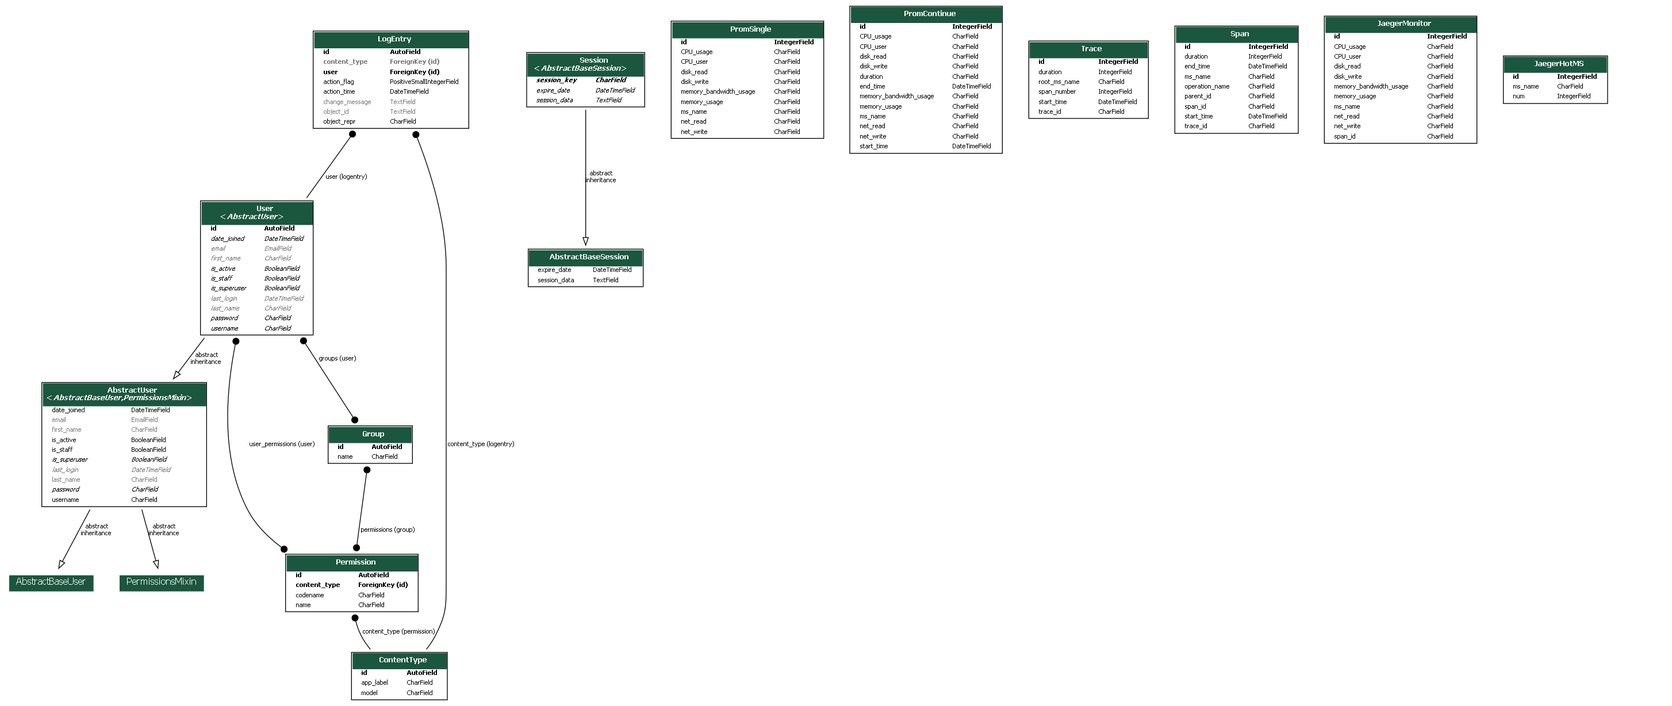
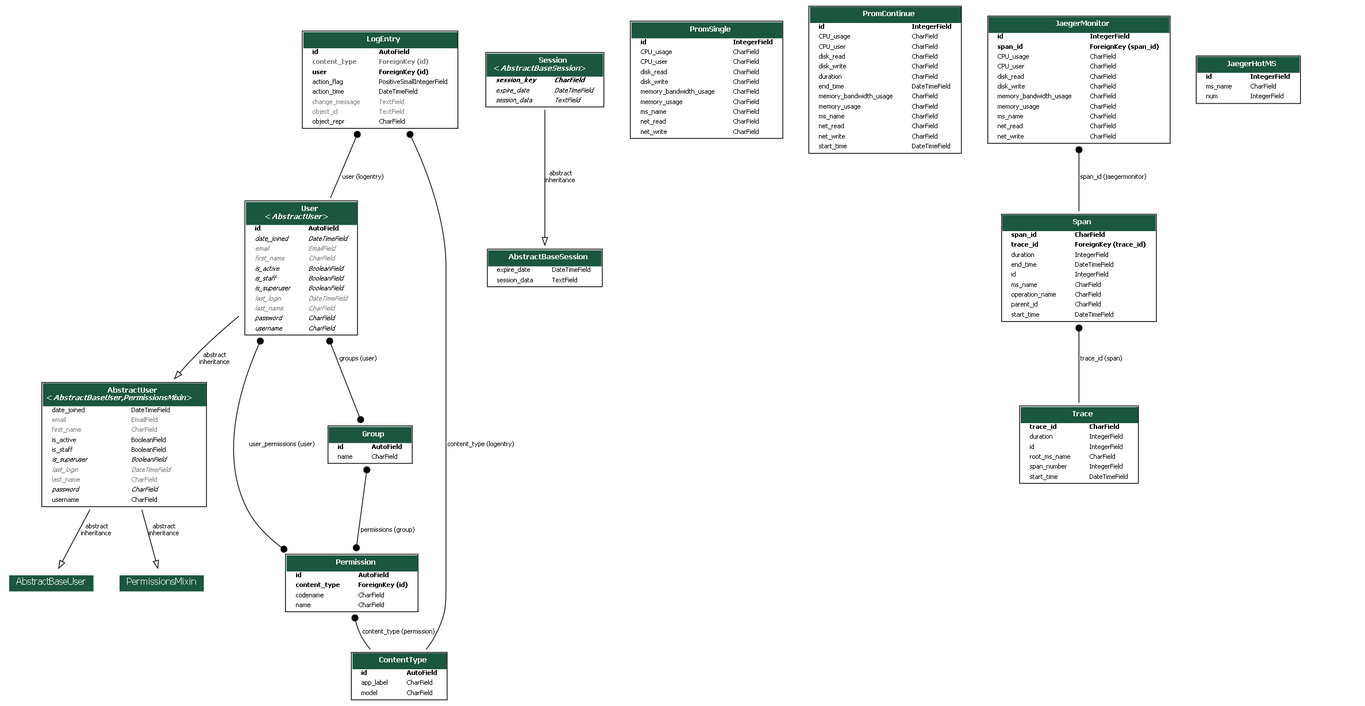
稍微修改

diff --git a/pyTest/init_data.py b/pyTest/init_data.py
@@ -1,8 +1,8 @@
 USER_CREDETIALS = ['XZGpmJYQF', 'QNIBybCS', 'lvRRWGkww', 'xvYsJmxP', 'UKPdZnENI', 'jxBiOhun', 'FhazVVftN', 'oIOqqrFa', 'zEdKfSmb', 'sBHCWzPFT', 'TOcuBHQa', 'zBemPwvSS', 'LDolxRai', 'aVCTYhzgV', 'ajNPuTsl', 'gNoeWVKK', 'tfoJkSlD', 'FsjZfRaut', 'wxTbHHFQz', 'FpSEiyAk', 'ckwQtYLKJ', 'WWeGXUby', 'wXDvSBrz', 'wOziajBt', 'TdBHGIbor', 'tDyQiRSk', 'dIKVFrAw', 'mZBTZbGN', 'uuqbdvKfT', 'MfTiOCRi', 'kZqJYXUy', 'cOOKmrPN', 'CMkahgOuq', 'WraaxKpxR', 'KEVhNlRm', 'qCIfJPkhe', 'yrGvkcZJ', 'OIoGatAMu', 'IONzzWKW', 'GwtmGMYV', 'lOHgeUGx', 'JrMwZuAJ', 'RPFITfdg', 'OTubbvcbh', 'KRLBHQtYz', 'zNgVhdLuU', 'przPVWUP', 'BKsZhvDtc', 'hufBlZzY', 'egeTBVLcz', 'ygHnPpkY', 'XYIMaFbF', 'bsWdbCPL', 'rsOCPnUOm', 'hGFpXfXpq', 'hVvpfsbd', 'cdXFPPkPc', 'zCNiLLmkX', 'lFlBqanbD', 'eDjwRbSX', 'lXWDJRew', 'MMPxnbqPm', 'vDvUZZLsX', 'HaIDpcYML', 'EmtlRIVH', 'QJNGRCcI', 'MjkwjZiO', 'xhtvngKYU', 'SmUQFqoLd', 'CbKaLmwvq', 'UXIgwGkgm', 'EbmQDXqw', 'dAgKFLZCg', 'lBmNkAtH', 'ugyrUtOD', 'vUuDLpef', 'yImJtlSMc', 'ZBryKdyF', 'xgDvzDQMg', 'himtQYbT', 'ylZNmKsC', 'ZTPTdPmH', 'OVIWgAgsp', 'WIonFvQY', 'ypfyyFIM', 'GCoLuLgkv', 'fWiYUYNM', 'ruaqWWRPl', 'QooGlrVN', 'aHaCqwEir', 'PVEgvcct', 'ydculZJDK', 'anrTixOSA', 'UCKTBLicc', 'KlBvUTUa', 'fKnXtUan', 'kPnLEadM', 'lsjraYuy', 'hQaniUsKJ', 'agtwQSslU', 'WaLRuuBY', 'jqxhTznN', 'rFzNPsmy', 'WiHpByUko', 'sDKPZGcI', 'OluLAcAep', 'DLfZvyDFZ', 'RWOdFYunB', 'hKxjvoVgU', 'PTiiJQDj', 'GDPlCFxF', 'sgYWymRYJ', 'gFLuBnABZ', 'KjyXvZSKH', 'PZXpWaNb', 'ZNUkfZxdJ', 'BIIJRryM', 'yqQgfYHeb', 'XqjgLoENo', 'QNHsEqFZ', 'McREGZKlT', 'TzNqwXXpB', 'oFUTjeGW', 'CDsfyesw', 'mngmlDzye', 'gkRTBkcz', 'OnflLJvPc', 'lVURvJBX', 'nvFvCBsx', 'oZtaleXo', 'ZZVIolAlr', 'IvJSkCqMC', 'knIkTaQrx', 'CVqVkoQD', 'XMCzeplK', 'bAkZvFiy', 'RsDbHQtx', 'KaLzOKGi', 'xNPbBtkt', 'CJSPStKn', 'FCUKLZdT', 'ftLJLSBX', 'VjBWnAMa', 'uCUDbirr', 'zRxzdwpCx', 'VAqQGktR', 'UtCYOBkIS', 'CBLeuxfih', 'BWqwzwoU', 'IKItgKNp', 'VQNSMguwO', 'WgDBRgXl', 'DJGmsRaL', 'xmHtWVgF', 'WllRHqNO', 'nTtUIrhUl', 'dOtGMCqJ', 'XrtBxwquB', 'BNWXuGDfW', 'DmJKOvrg', 'RznmnqAk', 'LaiachSJR', 'SVfsmUMcZ', 'wIKSiFXF', 'yxiFUzths', 'yJYzuZYH', 'FCfnajfD', 'FKZPlSmAl', 'zOKMmFHWK', 'bQhrBhwjW', 'OUVSqdjz', 'AoVMrBDDQ', 'xsMmeGaaP', 'ZZIWAeNwu', 'hvsISkBpJ', 'nrHxKoVU', 'eleLbEovD', 'fJbyvQdr', 'QRbUdUZzc', 'sgVmJuSrV', 'TMHuZCdIu', 'HUvUvIVg', 'kEEPxZBsC', 'jLwVPLDfi', 'qVZlQilmu', 'kurhKYqk', 'lfldxrYSe', 'CYMuRPGKX', 'pyoZawabw', 'ulUBsXJMY', 'hJipjGSQ', 'goqvaWay', 'EClWksrk', 'WtAdqFxy', 'NXzuDfTW', 'TyGVpuEi', 'yLEkzntiQ', 'TXFxFMnDJ', 'LwoEvOOiw', 'sXHbzzsJ', 'AxDNwiix', 'lzQtALZD', 'MxCFmvDaj', 'DDfoqKkML', 'oQNHhtwAM', 'nduMbBMo', 'JUNWAEoP', 'tZPGOjxp', 'yEMWWrogq', 'IJyresoVL', 'BFNWEWgt', 'GKhdCBsIU', 'ubRPlIoUw', 'HhyhXtVrZ', 'mwWfwhMu', 'JgcCmKjU', 'ODcEKYWl', 'PWovBSEYU', 'sAmNCClj', 'jjzIwNvr', 'BnlorVKtF', 'lnHIMSru', 'bRgXAnxah', 'yMJsOToj', 'UOXejVZOF', 'PRmoTLEue', 'qVgfMgEg', 'RMqPiEKY', 'JrCICcgm', 'ekqjhSqj', 'wDPagLIxT', 'iLaJbPlnt', 'WVQiNCKo', 'uaUJJRyDJ', 'ZEupYZxC', 'tQNGXSVLN', 'IiVbisgyc', 'cNSGQqTDn', 'qLxJgHkG', 'hovVevslq', 'NDjvSuXsR', 'CasucZBF', 'bldNXSQeE', 'myMkwYxt', 'RIUCbcTEa', 'OrikRoED', 'MnteXMAl', 'WqogIkmS', 'uhrDuhuX', 'SvtYByRv', 'ntIhXQfah', 'TfLtSCuh', 'qJusaTdM', 'MsfrmmEC', 'AvIhwFCGx', 'TVtOqiQS', 'SUZVvUsH', 'mVSIwqzL', 'jkgiOBlla', 'gDFFcKQwm', 'ADHeztSuJ', 'CkwRamHP', 'cBxGDyPX', 'gegJfEWAj', 'xoNVzAiWx', 'ASdwYYth', 'atxruuFIu', 'MaOGvrNUg', 'lXBsjMue', 'HsEKTsTa', 'QGoIcoMRz', 'HLFfEydRv', 'HFNbTDCyO', 'ovQHnnwH', 'frvstzjpF', 'sanESzTm', 'qeZvSMcl', 'Urdyglve', 'QaqZhBcy', 'OOgPxoKVY', 'dBRmuZSx', 'zbJLdpKdL', 'XioohHweo', 'btLnsZjmX', 'PAwRWpegK', 'aPNeSYJGA', 'nCKOqvsk', 'aQEKCMAz', 'iczixcxm', 'RvPDSIvno', 'bNvBOMDR', 'rCaUvelgU', 'rMbAQhebZ', 'EVFJVbWN', 'HWnEpSTJ', 'shznfMzVV', 'GzDyvGCqj', 'XPKCLOLr', 'PjMTgIjn', 'CXnZaxYK', 'OBdjSRaJ', 'PfzcfXSd', 'TCbDYGMv', 'hhOKUZyh', 'ACtCMHdym', 'jEZCchdN', 'RBGGwgjp', 'CROqkvSkx', 'ROoyzpfO', 'THOyywlnE', 'GhgAdZPr', 'xMXhnLFx', 'XMlAQfCA', 'EGkwTpmkh', 'fBIWeYiul', 'jCccvuqW', 'bKDtWLuWv', 'bxbAJtNaC', 'jiZrUIPi', 'ZXQSaJMzP', 'QeQkUFRQ', 'CUVkfsLe', 'DuyLHsfH', 'LXnBRBxXj', 'QCqJdISA', 'bjTMiaRc', 'BoLfOCoQS', 'JgfkJIGhH', 'Ynxdcbxl', 'ZqAVjvSl', 'ahGhvPNH', 'NzZhzSFOY', 'JIIISyVH', 'UlQCvKhT', 'wEdiPFgr', 'hGiXUPzU', 'FHydmJXHl', 'KhjdgADT', 'QuYMDzEmY', 'PEtqvsEK', 'ZJXcqdRTx', 'HhsrjDRjz', 'umtKEZfSx', 'mnCFpmrRM', 'WAlalZQLG', 'SBknhBxs', 'jxrfEuAmk', 'xQzUKzOA', 'GcADUBqW', 'vlHUxyaL', 'uzrmjIeL', 'VLIiGWwn', 'hAyTHMsP', 'iKysIUngB', 'uaMmLZwLk', 'VIVOzjVT', 'YpfQkcOX', 'oYpfBiatv', 'ApocqnTmX', 'tGalSPvgT', 'CIqtvCGis', 'sgbAPFAzn', 'KelsqCgAD', 'sljwXaNOF', 'BXVcOYVd', 'RIueeHju', 'mwluoeJd', 'NNTXctAKG', 'dtJHbZmh', 'uhWSzNOtN', 'fJNnvJTwT', 'wrqKSeUD', 'LdKECXPv', 'rNhaaGWy', 'bbHEcnNF', 'mbeoZCUm', 'OhwjIOPoW', 'aBCsFRpZ', 'gEYLSHyD', 'AuQvUicG', 'QdtIRNvP', 'uQMfuIXIl', 'wtaMNgjm', 'XxstlCTv', 'cOBQBmjmB', 'MLTXETeJD', 'WrTJmzOql', 'NXNVLlkFd', 'TUoVSLeu', 'QGXVmfog', 'xzOBbbOb', 'DvSVfrwe', 'NnFWiTRB', 'rWGWpAld', 'PScxKAOo', 'ejXfnnpMv', 'roXtKVhkq', 'GcIUudjo', 'dcsCfnsqy', 'tGcPvgItg', 'poaiRgff', 'eMTCTUnj', 'zSmfUyrYw', 'kFVIYTHaM', 'brjXXxtyI', 'mkAQTvLbs', 'EVMvFXEK', 'GNbNufRj', 'DvVmlyrL', 'FLLZAVdg', 'CGvYqelk', 'ThHElCHW', 'bSGgLibLK', 'cbDnOYBG', 'IDJjKAnsk', 'QaLOcxlk', 'YDQWBcuPi', 'bRqWlMPA', 'MIoOnjxF', 'sFohiVML', 'AgUnXrCP', 'xrJYhyfp', 'SLdjqQWR', 'nfjoYDGi', 'WWEApxvdm', 'rWAKzNStG', 'WJUubqde', 'lCpyMsOW', 'JqcfUWFH', 'yBKDJTnzT', 'zDOiSkcr', 'hmBNbOswj', 'tmcdxJnPn', 'uTXCPklv', 'ILZAOYoAP', 'eVaJlGmrD', 'kSnxfIoZN', 'XodHBssh', 'OKtaQyIJm', 'brCDZllZp', 'htNgqUzj', 'sKZsmore', 'mhhpWuyZ', 'aZpqoMytS', 'GWvebWQCx', 'wOfzmQzf', 'hYUSmJUH', 'LoeFgXGgo', 'hKaQxRYe', 'asTYOEJhB', 'rnubHRHr', 'NTmnHgGg', 'DWSRiUfD', 'LkjqDFCx', 'KQXajGtc', 'WfuJXXfw', 'UAOkrKQx', 'TxkHQrKdT', 'egCQYsbHy', 'nxGTKbHw', 'StnrEUTDp', 'ZaifrwmW', 'hFgOSgbGV', 'gyYKMCkE', 'AnFZIFqF', 'ESZNJwBaI', 'SozfpJCFG', 'vHsFgkvsw', 'fRSuJmAMM', 'OIzYpnCIE', 'ruIBvtDu', 'qrzQAQGw', 'SQQRGNDFS', 'GlKZSaxs', 'hnuWnEXO', 'ArmvNYsU', 'GAZKfIOA', 'nKXqxkjD', 'UvujuFpw', 'HtOosLsJ', 'ftyoJNIN', 'lsPYybzin', 'DdGkARMTH', 'BsdQYAuRK', 'kvsaNfpS', 'cCIroodpM', 'DwvcSiifI', 'WKMYGDSX', 'LkhHtsOmk', 'PoYebdEiH', 'LIEPdFfzy', 'rWDkZHFqL', 'KKHldmViH', 'dWqXvFMUT', 'uaxpnBrca', 'CjXHwSXET', 'KMTlVHus', 'zouymkDD', 'AhJCBiko', 'jlVOnpMeR', 'gGKKUjdM', 'FATdsidt', 'MLTMrDjI', 'lnFBJEOUY', 'dSOeYMuY', 'Doefvrpl', 'bPnyPfAIV', 'EhpvbHEos', 'XggtZCJE', 'ZhIgGJCH', 'qzNUfOmbd', 'JyiJygDT', 'rUmuywcy', 'DQNenAmVd', 'TOmTpgSD', 'NWVyoxLXF', 'BeZrJGuS', 'ydzMTQMfr', 'HKnkgttO', 'CobgTaHr', 'wqLQUwhW', 'FxEmNuLye', 'jAFrGLdW', 'KFDEXAnWR', 'YHAgFaqi', 'OUKdorvLd', 'KQTjaLnHl', 'JLVTLoAF', 'EoWBSAZXf', 'EzHXkkOXx', 'BjDYpBtq', 'MOnQjZqp', 'FWvADAhI', 'mAtTYyhhV', 'rQSxyiQCT', 'eXSyMIdV', 'avPnqCWAN', 'svcdheAf', 'sXWZsIxkz', 'DsdfECfZM', 'VXXfgrqss', 'CLaTDeMpn', 'SIKyUYfVh', 'inPYmqMM', 'zYAwDfHvW', 'MTwUgVXzj', 'HwjVKTLf', 'dxLQrDIZ', 'UfCRhwzcz', 'zDoJUDKW', 'tlwJXcYE', 'MKtSwwxb', 'erKXIQffL', 'TYnzfORs', 'nJUNPAjFb', 'PBHInyLle', 'yEIPkVSI', 'ypYFyBTf', 'lPVruDpVw', 'txWjRZqtp', 'SUdjfWMp', 'bXABVXXp', 'mARejfAod', 'CXXwqtXKo', 'QaolHEiNO', 'aPKylwWY', 'vWEkWuFb', 'bowiCgxDz', 'vXHiJPMpx', 'EhkUEvGn', 'tnAlbOSbU', 'aRbIlVUDh', 'WSTbBhOo', 'xEaBsefCV', 'ynbbQKbf', 'KRWYFqrJ', 'OhkCgLeEQ', 'FFpfuDlaA', 'BtRzLSrNh', 'XsKxsYJAX', 'oGWVkvoG', 'RWmtqZZJ', 'jMEghNxU', 'BbdbkutF', 'JklDhtLS', 'bwJlvSwdo', 'JajSPEHb', 'fgULUMYH', 'zIMABInY', 'RLxFXtlQ', 'sJdvIhMTg', 'cjbmFaBV', 'qIQZuCFN', 'NHiEAOzJ', 'fmjInwwH', 'GjOUxISCi', 'sELTBbTMz', 'kUpLeISH', 'gvzDrmFi', 'dcrYeMhwt', 'ngAnaLwK', 'sjgyZaKA', 'COLCRzJc', 'UGWhsaXhP', 'PwUGLupj', 'VOhlJUAg', 'KSCSfSYBP', 'XOBBnDjb', 'hUUZcbac', 'opknCOajM', 'IklyTQnwm', 'THrYOOTjm', 'xAWgJmOUi', 'MhHyHMWO', 'LRsfMmSqH', 'WqnbEtfqX', 'KzgUifezU', 'xShOZSFx', 'MQPxkkxu', 'KXGwMhHZ', 'kbYepquuo', 'spTQHJLz', 'rKpUmlAP', 'GFExxJxT', 'zaPOJcjRk', 'JghTNOeDY', 'rfczWYmEA', 'GkHOPhod', 'oWkTOVaa', 'PZMrazzz', 'YBJyqeleF', 'AbiagJtxB', 'eIKXZIOa', 'pACwkmdc', 'rwDunZpL', 'SQURGEpt', 'SgOyUeJy', 'QPXxvulgR', 'NVlgQJiZ', 'DHcUxjSTD', 'rGDhKUAUG', 'zRmyjlGv', 'aidcSSUdG', 'QPFuYnFd', 'wGeGehDu', 'OvWmfybfq', 'TDlTsBRBP', 'LyWRNyndA', 'eovLYayim', 'rOCDmfSo', 'FZKrlWExR', 'GabxQLSsf', 'lhrYvijBU', 'BTBpxxvW', 'DDDIKbgpA', 'ThXpYwpZ', 'zVJAnoldm', 'xlAOSqYf', 'gxCPbKTt', 'zteOvXmf', 'BicIbeCY', 'yedLPgMx', 'dhqlWvGku', 'nINSGwHV', 'VGvkNwBQ', 'gqdxDMLar', 'pBsAWVokV', 'NetuPGOTN', 'qOiviuvi', 'vUXFZRbCy', 'XChWhtcQU', 'OmZEWOGO', 'SkJFpAvV', 'XfoulclNO', 'EQWAXlFM', 'ARwaQxph', 'YFXICIIG', 'JqTqqewV', 'BcHIvQFRZ', 'piqJnzfxS', 'AATDlkXdg', 'Ssqcdyaqu', 'YVpVFEJat', 'DtGfuTzu', 'wBjAqzeaB', 'OuacnrsQ', 'QrODlvbe', 'VELrMXtiK', 'rEdjFukER', 'yWKIvgFQ', 'vJOxplbcx', 'XZWVdNIgf', 'jwzSDJycH', 'wJpTsLjE', 'lSVIUSnP', 'zWiGnWpDL', 'XqjyZgErb', 'otUPXpdKm', 'LpkKHiOC', 'cUpMjUfH', 'lIupargn', 'uWkfWDhe', 'QPFxZGyZx', 'GzYjDGeS', 'ryYbUvOp', 'kLgaSkjEl', 'HRfGJLrzk', 'WwEhzaRD', 'hnsjUzyL', 'wvQWtPap', 'RkaAaNjra', 'XIoaTgap', 'RfIRuuZY', 'gHjNAchM', 'ZZobODkF', 'RiXTjpTnp', 'hjyeWpohn', 'AbxbbVYo', 'gqBXvINr', 'dYPgOsKq', 'LGxgdHpA', 'EGVEmluPz', 'FjseYHyTA', 'RVeSHDqX', 'fzoYCtrN', 'BEaobELng', 'LQcKnWGI', 'nMAhOeKRn', 'PvQJoISx', 'SAYJnKKBC', 'RFTzHrPj', 'fxhzfsjy', 'tateHMVUB', 'krPmmWla', 'ZIJkoZrwS', 'xIkJGRtc', 'aNNZYvzes', 'HiylBlab', 'vWmZiZKul', 'hPSDHDjI', 'EdfxggxHC', 'QftIjJVqC', 'nxFnhdHG', 'PvgRViiw', 'fZwXLqeB', 'bIGjknuhb', 'gWgtwuCyd', 'imjSQNhLi', 'JWHEYpso', 'iAYKiGPZJ', 'yHImZSQk', 'iXvGBxKP', 'ZzgppKKF', 'eTmtiGHFz', 'gjXfBpPnl', 'nyqfhofJ', 'ACoQixLS', 'HAUtbghf', 'QAqSMQOgg', 'pxzkuOhEa', 'BMaFOXEg', 'exrwnNdjI', 'rqJXsOfZp', 'eMlvemxOW', 'LFEHRSIg', 'ZsvdOgkB', 'ZjkSRkRs', 'rMnyRHoJt', 'RibMAYpkU', 'OmSpmsGwF', 'fXiHZEsWl', 'dCSailZOX', 'HlAoJquW', 'dnxnyUTLy', 'cccdlnlCO', 'CyagtkpiQ', 'xcwObocZ', 'fuOflIyc', 'drAJrWLjP', 'ZVEXjJlbG', 'SmSaRiWE', 'PevcimyOd', 'uYzxpVRbE', 'vROUFiKn', 'PBZTXNLN', 'xJshRoPsp', 'sydWjOSD', 'IiDqrlUR', 'tvBbhkwJW', 'CAZGsdYNl', 'xDIbJQgM', 'dDMNGahb', 'uiZQtyeHe', 'VKKCTMlsk', 'YLEYpfpf', 'EFSFDMTN', 'GfiTmjQx', 'hUSuCNdd', 'vBWguOgh', 'gIxavfCM', 'ZZoRPJmaw', 'tPEVdeIHS', 'jngMnjRZO', 'YKjMnDkbf', 'wANbBpbj', 'oyNorCRBM', 'avpTiWph', 'dRqUxWBp', 'UXLHLICu', 'rXQqSmeR', 'PlzTDITts', 'eIxORwNPc', 'VRRHjHWIj', 'JKqoWUalf', 'wQrfJhEnJ', 'OuyeAQIPg', 'SnaMaFUsi', 'ZOrAsMXNn', 'RFHtlQWdN', 'ulpxSSJS', 'xfrQDivMs', 'AvTdYgYoE', 'joXJZyQC', 'QMBAgspF', 'AuFTjlXR', 'rNSXRcBg', 'TFIKlKvg', 'eaKNyNpu', 'QqSdnJyHF', 'wByIFhJBo', 'WsxaQzXYb', 'IBiVtvekT', 'TVqikaQLf', 'iCYJwQxq', 'EAQIWtEDD', 'HSONvRit', 'kaSuhfJh', 'iPQuSIzkE', 'OKBuQQCHK', 'sTdSbYKWP', 'VpYibpTDI', 'JYxoAoBU', 'FbdefFhA', 'KMJPINUz', 'gVYFZqXO', 'fmuGdVLO', 'XzbRQGBqw', 'zUEQaxwdG', 'nlIeQetdW', 'YxuaoHZv', 'xyAXBBhmt', 'JyevKfAo', 'ImfQgqfXs', 'NmeSsbjGc', 'JYuObuVt', 'SJJOpywJS', 'wfXJQXMv', 'pAfUMjDzF', 'BUtNSwaGR', 'LKyAvUVlM', 'HMKzlPUS', 'TITuLZHO', 'tdXKYGpFC', 'kWZLnSDJ', 'buOGBqGuC', 'KjbaLDjtP', 'bsRsxnzX', 'ZJNGCpzYV', 'GBLsjeMSO', 'GlXKUuhj', 'xbTtKtkI', 'lIepNzRrG', 'khmCRewAS', 'gfCVzdkPm', 'wfjhcPRd', 'rjoDeftzl', 'lzzKGysAC', 'WsNUJtgIb', 'BXROZUDc', 'kPbsGESI', 'tqIGIclR', 'mQefoAeF', 'dMPNLhSz', 'PdfuoNbxe', 'eLQKgmer', 'tYymQYZEF', 'cnUNewHm', 'DlPpaEBAf', 'lqFIahoAu', 'XprjUzexw', 'SxMhYllWd', 'UUxcScai', 'hCWENpPB', 'rapGdHzI', 'ZgGJwMPI', 'uoGQzGKHE', 'aWTPIvIS', 'gmRtyjUWb', 'fbQbbSHj', 'rBHpMmSa', 'qBCTTCxRs', 'FjEkyaks', 'NovJMmbht', 'iJphKgOQV', 'FcISqYsTw', 'hnNmBtUpH', 'DMPcjbAkY', 'zMFjJcCa', 'mvLDgfwd', 'khPAPXam', 'gMpFTevUn', 'UoRSRAWj', 'eZBwrOWyC', 'ecDAJIXA', 'skVSsCsUB', 'hDyfbHIzV', 'SxuWcWIXs', 'sAusSKgrv', 'bmPCkTLH', 'PNHfCFbJ', 'ZGQZTSkz', 'zOWYSDAp', 'koSGlbzf', 'hEUuclhjd', 'CCagekHUl', 'XIzWMqZLr', 'bxZytacYp', 'rfPgXlEq', 'UdswqryT', 'OGNGbYNYX', 'qRTzvDqdU', 'ywxcUoJZR', 'JNefEhjuc', 'PkWkPpfOA', 'IZGlUfOm', 'mZBWNWCw', 'qxqSqxXD', 'vUyueLmKS', 'gfSElJhbn', 'QUvrnSede', 'deRhoukka', 'eodBjHJM', 'RDMQuRQhA', 'wQRWgnavV', 'rmqwmwNOz', 'guzYNTwKR', 'izwiUqVK', 'ynmVRxze', 'KCXMCBoEQ', 'ZyLUVBvlQ', 'kfAkVzvp', 'DTYjpmJx', 'uARKMsWzC', 'aFSTkkwI', 'cNMNcuNX', 'jIZoOBQmm', 'SGqeiBZI', 'akcGDvPnf', 'sAILCsxI', 'SbXWrClb', 'JuqisYuPE', 'erEuMJWL', 'LTArQsCaZ', 'zwSQqqKZ', 'ytoUuqPx', 'AVmDViXl', 'CgyNNntsA', 'RcjXukiQ', 'FNrfcmFrf', 'MTtciqSdZ', 'VGGmREGt', 'YuwIuItJB', 'LlmfknCq', 'OnpUBIhA', 'hDWddXSR', 'TwskGebv', 'DQozNXUhc', 'rxzEEzEKz', 'XjFZSDJKx', 'mTgMcgQSq', 'RkHODkKd', 'VxFPARnf', 'nnhNqSYM', 'KeZeumCQt', 'TXijZoMf', 'ZPKKldMD', 'heVYfltge', 'JZmKAuILu', 'qoulXkvI', 'uaQJXINa', 'xjQBfVHLt', 'FCgCqQpnb', 'pgLDUDUS', 'bdbXxSHp', 'TMIwSjpu', 'DVGfiRMi', 'DhbpzXtBL', 'PIeSunOl', 'NfoJzFgb', 'XfiZsvVm']
-BENCHMARK_HOST = "http://101.200.84.172:32677"
-PROMETHEUS_HOST = "http://101.200.84.172:30004"
-JAEGER_HOST = "http://101.200.84.172:32688"
-KIBANA_HOST = "http://101.200.84.172:30959"
+BENCHMARK_HOST = "http://39.105.183.249:32677"
+PROMETHEUS_HOST = "http://39.105.183.249:30004"
+JAEGER_HOST = "http://39.105.183.249:32688"
+KIBANA_HOST = "http://39.105.183.249:30959"
 cpu = "sum(rate(container_cpu_usage_seconds_total{container=""}[1m])) / (sum(container_spec_cpu_quota{container=""} / 100000) )*100"
 TRIP_DATA = [{"from": "shanghai", "to": "suzhou", "trip_id": "D1345", "seat_type": "2", "seat_price": "50.0"},
              {"from": "shanghai", "to": "suzhou", "trip_id": "D1345", "seat_type": "3", "seat_price": "22.5"},

diff --git a/pyTrainTicket/src/jaeger/jaeger_monitor.py b/pyTrainTicket/src/jaeger/jaeger_monitor.py
@@ -17,6 +17,7 @@ from pyTrainTicket.models import JaegerMonitor
 
 
 def jaeger_get_monitor():
+    print("开始资源监控")
     # 获取所有的trace
     traces_all = Trace.objects.all()
     traces = []
@@ -42,7 +43,6 @@ def jaeger_get_monitor():
             span['resourceData'] = [
                 {
                     'CPU_usage': 'CPU_usage',
-                    'CPU_user': 'CPU_user',
                     'memory_bandwidth_usage': 'memory_bandwidth_usage',
                     'memory_usage': 'memory_usage',
                     'disk_write': 'disk_write',
@@ -56,39 +56,33 @@ def jaeger_get_monitor():
 
 
 def jaeger_monitor_promQL(span_id, ms_name, start_time, end_time):
-    # CPU系统态利用率
-    CPU_usage = 'sum(rate(container_cpu_usage_seconds_total{pod=~"%s.*"}[1m])) by (pod, namespace, job, instance) / (sum(container_spec_cpu_quota{pod=~"%s.*"}/100000) by (pod, namespace, job, instance)) * 100 ' % (
-    ms_name, ms_name)
+    print("开开")
+    # CPU利用率
+    CPU_usage = 'sum by(instance, pod) (rate(container_cpu_usage_seconds_total{pod=~"%s.*"}[1m])) * 100' % ms_name
     res_cpu_usage = jaeger_monitor('CPU_usage', CPU_usage, span_id, ms_name, start_time, end_time)
-    # CPU用户态利用率
-    CPU_user = 'sum(rate(container_cpu_user_seconds_total{pod=~"%s.*"}[1m])) by (pod, namespace, job, instance) / (sum(container_spec_cpu_quota{pod=~"%s.*"}/100000) by (pod, namespace, job, instance)) * 100' % (
-    ms_name, ms_name)
-    res_cpu_user = jaeger_monitor('CPU_user', CPU_user, span_id, ms_name, start_time, end_time)
-    # 内存带宽占用率
-    memory_bandwidth_usage = 'sum(rate(container_memory_working_set_bytes{container!="POD",pod=~"%s.*"}[5m])) by (pod, container, namespace) / sum(container_spec_memory_limit_bytes{container!="POD",pod=~"%s.*"}) by (pod, container, namespace)' % (
-    ms_name, ms_name)
-    res_memory_bandwidth_usage = jaeger_monitor('memory_bandwidth_usage', memory_bandwidth_usage, span_id, ms_name, start_time,
-                                                  end_time)
+    # 内存利用率
+    memory_bandwidth_usage = 'sum(container_memory_working_set_bytes{pod=~"%s.*"}) by(namespace, pod, instance) / sum(container_spec_memory_limit_bytes{pod=~"%s.*"}) by(namespace, pod, instance) * 100' % (
+        ms_name, ms_name)
+    res_memory_bandwidth_usage = jaeger_monitor('memory_bandwidth_usage', memory_bandwidth_usage, span_id, ms_name,
+                                                start_time,
+                                                end_time)
     # 内存使用量
-    memory_usage = 'sum(container_memory_working_set_bytes{container!="POD",pod=~"%s.*"}) by (namespace, pod, container)' % ms_name
+    memory_usage = 'sum(container_memory_working_set_bytes {pod=~"%s.*"}) by(namespace, pod, instance)' % ms_name
     res_memory_usage = jaeger_monitor('memory_usage', memory_usage, span_id, ms_name, start_time, end_time)
-    # 磁盘写入带宽占用率
-    disk_write = 'sum(rate(container_fs_writes_bytes_total{pod=~"%s.*"}[5m])) by (pod)' % ms_name
+    # 磁盘写入带宽
+    disk_write = 'sum(rate(container_fs_writes_bytes_total{pod=~"%s.*"}[1m])) by(namespace, pod, instance)' % ms_name
     res_disk_write = jaeger_monitor('disk_write', disk_write, span_id, ms_name, start_time, end_time)
-    # 磁盘读取带宽占用率
-    disk_read = 'sum(rate(container_fs_reads_bytes_total{pod=~"%s.*"}[5m])) by (pod)' % ms_name
+    # 磁盘读取带宽
+    disk_read = 'sum(rate(container_fs_reads_bytes_total{pod=~"%s.*"}[1m])) by(namespace, pod, instance)' % ms_name
     res_disk_read = jaeger_monitor('disk_read', disk_read, span_id, ms_name, start_time, end_time)
-    # 网络写入带宽占用率
-    net_write = 'sum by (pod) (irate(container_network_transmit_bytes_total{pod=~"%s.*"}[5m])) / count by (pod) (kube_pod_container_info{pod=~"%s.*"}) * 8' % (
-    ms_name, ms_name)
+    # 网络写入带宽
+    net_write = 'sum(rate(container_network_transmit_bytes_total{pod=~"%s.*"}[1m])) by(namespace, pod, instance)' % ms_name
     res_net_write = jaeger_monitor('net_write', net_write, span_id, ms_name, start_time, end_time)
     # 网络读取带宽占用率
-    net_read = 'sum by (pod) (irate(container_network_receive_bytes_total{pod=~"%s.*"}[5m])) / count by (pod) (kube_pod_container_info{pod=~"%s.*"}) * 8' % (
-    ms_name, ms_name)
+    net_read = 'sum(rate(container_network_receive_bytes_total{pod=~"%s.*"}[1m])) by(namespace, pod, instance)' % ms_name
     res_net_read = jaeger_monitor('net_read', net_read, span_id, ms_name, start_time, end_time)
     return {
         'cpu_usage': res_cpu_usage,
-        'cpu_user': res_cpu_user,
         'memory_bandwidth_usage': res_memory_bandwidth_usage,
         'memory_usage': res_memory_usage,
         'disk_write': res_disk_write,
@@ -147,10 +141,6 @@ def update_database(span_id, ms_name, metric_name, metric_value):
         JaegerMonitor.objects.update_or_create(
             span_id=span_id, ms_name=ms_name, defaults={'CPU_usage': metric_value}
         )
-    elif metric_name == "CPU_user":
-        JaegerMonitor.objects.update_or_create(
-            span_id=span_id, ms_name=ms_name, defaults={'CPU_user': metric_value}
-        )
     elif metric_name == "memory_bandwidth_usage":
         JaegerMonitor.objects.update_or_create(
             span_id=span_id, ms_name=ms_name, defaults={'memory_bandwidth_usage': metric_value}
@@ -179,6 +169,7 @@ def update_database(span_id, ms_name, metric_name, metric_value):
 
 # 从数据库中获取资源数据
 def get_resource_from_db():
+    print("获取trace数据")
     # 获取所有的trace
     traces_all = Trace.objects.all()
     traces = []
@@ -194,7 +185,6 @@ def get_resource_from_db():
             'start_time': str(datetime.strptime(start_time, "%Y-%m-%dT%H:%M:%SZ")),
             'duration': str(timedelta(microseconds=duration))
         })
-
     for trace in traces:
         # 获取traces下的所有span
         trace_id = trace['trace_id']
@@ -213,15 +203,14 @@ def get_resource_from_db():
                 'end_time': str(datetime.strptime(end_time, "%Y-%m-%dT%H:%M:%SZ")),
                 'duration': str(timedelta(microseconds=duration)),
             })
-
         for span in trace['spansData']:
             # 获取对应时间戳的资源利用情况
             span_id = span['span_id']
             monitor = JaegerMonitor.objects.filter(span_id=span_id)
+            print(span_id, json.loads(serializers.serialize("json", monitor)))
             resource = json.loads(serializers.serialize("json", monitor))[0]['fields']
             span['resourceData'] = [{
                 'CPU_usage': resource['CPU_usage'],
-                'CPU_user': resource['CPU_user'],
                 'memory_bandwidth_usage': resource['memory_bandwidth_usage'],
                 'memory_usage': resource['memory_usage'],
                 'disk_write': resource['disk_write'],
@@ -244,7 +233,7 @@ def hot_ms():
             if trace not in trace_list:
                 trace_list.append(trace)
         JaegerHotMS.objects.update_or_create(
-         ms_name=ms, defaults={'num': len(trace_list)}
+            ms_name=ms, defaults={'num': len(trace_list)}
         )
 
     hot_data_all = json.loads(serializers.serialize("json", JaegerHotMS.objects.filter()))

diff --git a/pyTrainTicket/src/prometheus/continue_monitor.py b/pyTrainTicket/src/prometheus/continue_monitor.py
@@ -18,34 +18,30 @@ def search_continue_promQL(ms_name, start_time, end_time):
     else:
         name = 'ts'
     print("$$$$$$$$$$$$$$$$$$$$$$$$$$$$$$", name)
-    # CPU系统态利用率
-    CPU_usage = 'sum(rate(container_cpu_usage_seconds_total{pod=~"%s.*"}[1m])) by (pod, namespace, job, instance) / (sum(container_spec_cpu_quota{pod=~"%s.*"}/100000) by (pod, namespace, job, instance)) * 100 ' % (name, name)
+    # CPU利用率
+    CPU_usage = 'sum by(instance, pod) (rate(container_cpu_usage_seconds_total{pod=~"%s.*"}[1m])) * 100' % name
     res_cpu_usage = continue_monitor('CPU_usage', CPU_usage, start_time, end_time)
-    # CPU用户态利用率
-    CPU_user = 'sum(rate(container_cpu_user_seconds_total{pod=~"%s.*"}[1m])) by (pod, namespace, job, instance) / (sum(container_spec_cpu_quota{pod=~"%s.*"}/100000) by (pod, namespace, job, instance)) * 100' % (name, name)
-    res_cpu_user = continue_monitor('CPU_user', CPU_user, start_time, end_time)
-    # 内存带宽占用率
-    memory_bandwidth_usage = 'sum(rate(container_memory_working_set_bytes{container!="POD",pod=~"%s.*"}[5m])) by (pod, container, namespace) / sum(container_spec_memory_limit_bytes{container!="POD",pod=~"%s.*"}) by (pod, container, namespace)' % (name, name)
+    # 内存利用率
+    memory_bandwidth_usage = 'sum(container_memory_working_set_bytes{pod=~"%s.*"}) by(namespace, pod, instance) / sum(container_spec_memory_limit_bytes{pod=~"%s.*"}) by(namespace, pod, instance) * 100' % (name, name)
     res_memory_bandwidth_usage = continue_monitor('memory_bandwidth_usage', memory_bandwidth_usage, start_time, end_time)
     # 内存使用量
-    memory_usage = 'sum(container_memory_working_set_bytes{container!="POD",pod=~"%s.*"}) by (namespace, pod, container)' % name
+    memory_usage = 'sum(container_memory_working_set_bytes {pod=~"%s.*"}) by(namespace, pod, instance)' % name
     res_memory_usage = continue_monitor('memory_usage', memory_usage, start_time, end_time)
-    # 磁盘写入带宽占用率
-    disk_write = 'sum(rate(container_fs_writes_bytes_total{pod=~"%s.*"}[5m])) by (pod)' % name
+    # 磁盘写入带宽
+    disk_write = 'sum(rate(container_fs_writes_bytes_total{pod=~"%s.*"}[1m])) by(namespace, pod, instance)' % name
     res_disk_write = continue_monitor('disk_write', disk_write, start_time, end_time)
-    # 磁盘读取带宽占用率
-    disk_read = 'sum(rate(container_fs_reads_bytes_total{pod=~"%s.*"}[5m])) by (pod)' % name
+    # 磁盘读取带宽
+    disk_read = 'sum(rate(container_fs_reads_bytes_total{pod=~"%s.*"}[1m])) by(namespace, pod, instance)' % name
     res_disk_read = continue_monitor('disk_read', disk_read, start_time, end_time)
-    # 网络写入带宽占用率
-    net_write = 'sum by (pod) (irate(container_network_transmit_bytes_total{pod=~"%s.*"}[5m])) / count by (pod) (kube_pod_container_info{pod=~"%s.*"}) * 8' % (name, name)
+    # 网络写入带宽
+    net_write = 'sum(rate(container_network_receive_bytes_total{pod=~"%s.*"}[1m])) by(namespace, pod, instance)' % name
     res_net_write = continue_monitor('net_write', net_write, start_time, end_time)
-    # 网络读取带宽占用率
-    net_read = 'sum by (pod) (irate(container_network_receive_bytes_total{pod=~"%s.*"}[5m])) / count by (pod) (kube_pod_container_info{pod=~"%s.*"}) * 8' % (name, name)
+    # 网络读取带宽
+    net_read = 'sum(rate(container_network_transmit_bytes_total{pod=~"%s.*"}[1m])) by(namespace, pod, instance)' % name
     res_net_read = continue_monitor('net_read', net_read, start_time, end_time)
 
     return [
         res_cpu_usage,
-        res_cpu_user,
         res_memory_bandwidth_usage,
         res_memory_usage,
         res_disk_write,
@@ -104,10 +100,6 @@ def update_database(pod_name, metric_name, metric_value, time):
         PromContinue.objects.update_or_create(
             ms_name=pod_name, start_time=time, defaults={'CPU_usage': metric_value}
         )
-    elif metric_name == "CPU_user":
-        PromContinue.objects.update_or_create(
-            ms_name=pod_name, start_time=time, defaults={'CPU_user': metric_value}
-        )
     elif metric_name == "memory_bandwidth_usage":
         PromContinue.objects.update_or_create(
             ms_name=pod_name, start_time=time, defaults={'memory_bandwidth_usage': metric_value}
@@ -147,7 +139,6 @@ def prom_data_opera():
     # 监控指标
     metric_list = [
         'CPU_usage',
-        'CPU_user',
         'memory_bandwidth_usage',
         'memory_usage',
         'disk_write',

diff --git a/pyTrainTicket/src/prometheus/single_monitor.py b/pyTrainTicket/src/prometheus/single_monitor.py
@@ -12,34 +12,30 @@ from pyTrainTicket.models import PromSingle
 
 
 def search_all_promQL():
-    # CPU系统态利用率
-    CPU_usage = 'sum(rate(container_cpu_usage_seconds_total{pod=~"ts.*"}[1m])) by (pod, namespace, job, instance) / (sum(container_spec_cpu_quota{pod=~"ts.*"}/100000) by (pod, namespace, job, instance)) * 100 '
+    # CPU利用率
+    CPU_usage = 'sum by(instance, pod) (rate(container_cpu_usage_seconds_total{pod=~"ts.*"}[1m])) * 100'
     res_cpu_usage = single_monitor('CPU_usage', CPU_usage)
-    # CPU用户态利用率
-    CPU_user = 'sum(rate(container_cpu_user_seconds_total{pod=~"ts.*"}[1m])) by (pod, namespace, job, instance) / (sum(container_spec_cpu_quota{pod=~"ts.*"}/100000) by (pod, namespace, job, instance)) * 100'
-    res_cpu_user = single_monitor('CPU_user', CPU_user)
-    # 内存带宽占用率
-    memory_bandwidth_usage = 'sum(rate(container_memory_working_set_bytes{container!="POD",pod=~"ts-.*"}[5m])) by (pod, container, namespace) / sum(container_spec_memory_limit_bytes{container!="POD",pod=~"ts-.*"}) by (pod, container, namespace)'
-    res_memory_bandwidth_usage = single_monitor('memory_bandwidth_usage', memory_bandwidth_usage )
+    # 内存利用率
+    memory_bandwidth_usage = 'sum(container_memory_working_set_bytes{pod=~"ts.*"}) by(namespace, pod, instance) / sum(container_spec_memory_limit_bytes{pod=~"ts.*"}) by(namespace, pod, instance) * 100'
+    res_memory_bandwidth_usage = single_monitor('memory_bandwidth_usage', memory_bandwidth_usage)
     # 内存使用量
-    memory_usage = 'sum(container_memory_working_set_bytes{container!="POD",pod=~"ts-.*"}) by (namespace, pod, container)'
+    memory_usage = 'sum(container_memory_working_set_bytes {pod=~"ts.*"}) by(namespace, pod, instance)'
     res_memory_usage = single_monitor('memory_usage', memory_usage)
-    # 磁盘写入带宽占用率
-    disk_write = 'sum(rate(container_fs_writes_bytes_total{pod=~"ts-.*"}[5m])) by (pod)'
+    # 磁盘写入带宽
+    disk_write = 'sum(rate(container_fs_writes_bytes_total{pod=~"ts.*"}[1m])) by(namespace, pod, instance)'
     res_disk_write = single_monitor('disk_write', disk_write)
-    # 磁盘读取带宽占用率
-    disk_read = 'sum(rate(container_fs_reads_bytes_total{pod=~"ts-.*"}[5m])) by (pod)'
+    # 磁盘读取带宽
+    disk_read = 'sum(rate(container_fs_reads_bytes_total{pod=~"ts.*"}[1m])) by(namespace, pod, instance)'
     res_disk_read = single_monitor('disk_read', disk_read)
-    # 网络写入带宽占用率
-    net_write = 'sum by (pod) (irate(container_network_transmit_bytes_total{pod=~"ts-.*"}[5m])) / count by (pod) (kube_pod_container_info{pod=~"ts-.*"}) * 8'
+    # 网络写入带宽
+    net_write = 'sum(rate(container_network_transmit_bytes_total{pod=~"ts.*"}[1m])) by(namespace, pod, instance)'
     res_net_write = single_monitor('net_write', net_write)
-    # 网络读取带宽占用率
-    net_read = 'sum by (pod) (irate(container_network_receive_bytes_total{pod=~"ts-.*"}[5m])) / count by (pod) (kube_pod_container_info{pod=~"ts-.*"}) * 8'
+    # 网络读取带宽
+    net_read = 'sum(rate(container_network_receive_bytes_total{pod=~"ts.*"}[1m])) by(namespace, pod, instance)'
     res_net_read = single_monitor('net_read', net_read)
 
     return [
         res_cpu_usage,
-        res_cpu_user,
         res_memory_bandwidth_usage,
         res_memory_usage,
         res_disk_write,
@@ -95,10 +91,6 @@ def update_database(pod_name, metric_name, metric_value):
     if metric_name == "CPU_usage":
         PromSingle.objects.update_or_create(
             ms_name=pod_name, defaults={'CPU_usage': metric_value}
-        )
-    elif metric_name == "CPU_user":
-        PromSingle.objects.update_or_create(
-            ms_name=pod_name, defaults={'CPU_user': metric_value}
         )
     elif metric_name == "memory_bandwidth_usage":
         PromSingle.objects.update_or_create(

diff --git a/pyTrainTicket/models.py b/pyTrainTicket/models.py
@@ -9,7 +9,6 @@ class PromSingle(models.Model):
     id = models.IntegerField(primary_key=True)
     ms_name = models.CharField(max_length=64)
     CPU_usage = models.CharField(max_length=64)
-    CPU_user = models.CharField(max_length=64)
     memory_bandwidth_usage = models.CharField(max_length=64)
     memory_usage = models.CharField(max_length=64)
     disk_write = models.CharField(max_length=64)
@@ -24,7 +23,6 @@ class PromContinue(models.Model):
     id = models.IntegerField(primary_key=True)
     ms_name = models.CharField(max_length=64)
     CPU_usage = models.CharField(max_length=64)
-    CPU_user = models.CharField(max_length=64)
     memory_bandwidth_usage = models.CharField(max_length=64)
     memory_usage = models.CharField(max_length=64)
     disk_write = models.CharField(max_length=64)
@@ -40,7 +38,8 @@ class Trace(models.Model):
     class Meta:
         db_table = "jaeger_trace"
     id = models.IntegerField(primary_key=True)
-    trace_id = models.CharField(max_length=255, unique=True)
+    # trace_id = models.CharField(primary_key=True, max_length=255, unique=True)
+    trace_id = models.CharField(max_length=255)
     span_number = models.IntegerField()
     root_ms_name = models.CharField(max_length=255)
     duration = models.IntegerField()
@@ -54,6 +53,7 @@ class Span(models.Model):
     # trace = models.ForeignKey(Trace, on_delete=models.CASCADE)
     span_id = models.CharField(max_length=255)
     trace_id = models.CharField(max_length=255)
+    # trace_id = models.ForeignKey(Trace, on_delete=models.CASCADE)
     parent_id = models.CharField(max_length=255)
     operation_name = models.CharField(max_length=255)
     ms_name = models.CharField(max_length=255)
@@ -67,9 +67,9 @@ class JaegerMonitor(models.Model):
         db_table = "jaeger_monitor"
     id = models.IntegerField(primary_key=True)
     span_id = models.CharField(max_length=255)
+    # span_id = models.ForeignKey(Span, on_delete=models.CASCADE)
     ms_name = models.CharField(max_length=255)
     CPU_usage = models.CharField(max_length=255)
-    CPU_user = models.CharField(max_length=255)
     memory_bandwidth_usage = models.CharField(max_length=255)
     memory_usage = models.CharField(max_length=255)
     disk_write = models.CharField(max_length=255)

diff --git a/pyTest/Train_Ticket_API.py b/pyTest/Train_Ticket_API.py
@@ -60,11 +60,13 @@ class User:
                                      "username": self.username,
                                      "password": self.password})
         try:
-            json.loads(response.text)
+            # print(response.text)
+            # json.loads(response.text)
             response_as_json = response.json()["data"]
-            token = response_as_json["token"]
-            self.bearer = "Bearer " + token
-            self.user_id = response_as_json["userId"]
+            if response_as_json is not None:
+                token = response_as_json["token"]
+                self.bearer = "Bearer " + token
+                self.user_id = response_as_json["userId"]
         except json.JSONDecodeError:
             pass
 
@@ -456,7 +458,7 @@ def user_tasks(uuid):
     #     tasks = random.choice([G_tourist_task, P_tourist_task])
     # tasks = random.choice([G_tourist_task, P_tourist_task])
     API_TASK = ['get_foods', 'get_foods']
-    # tasks = ZKT_user_task
+    tasks = G_user_task_consign
     # tasks = random.choices([G_user_task, G_user_task_rebook, ZKT_user_task, ZKT_user_task_rebook],
     #                        weights=[0.3, 0.3, 0.2, 0.2])[0]
     # tasks = API_TASK
@@ -500,10 +502,10 @@ def start_load_test(lambd, runtime):
 if __name__ == '__main__':
     # 用户启动间隔
     # arrival_rate = int(sys.argv[1])
-    arrival_rate = 200
+    arrival_rate = 500
     # 负载运行时间
     # runtime = int(sys.argv[2])
-    runtime = 30
+    runtime = 1
     start_time = time.time()
     print("开始测试 用户启动间隔-- %s ms, 运行时间--%s s" % (arrival_rate, runtime))
     start_load_test(arrival_rate, runtime)
